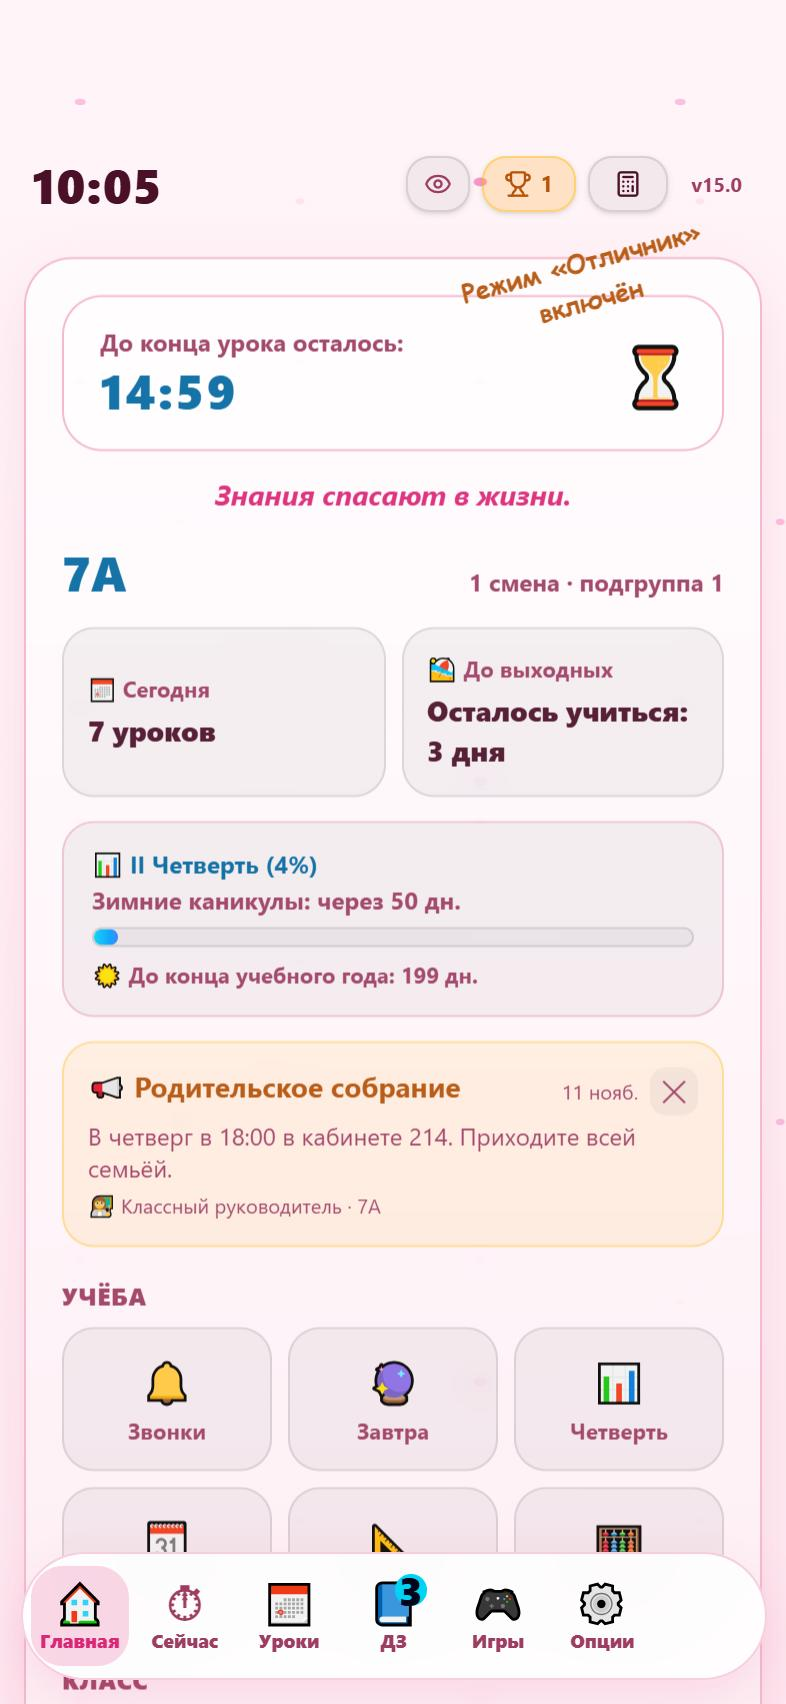
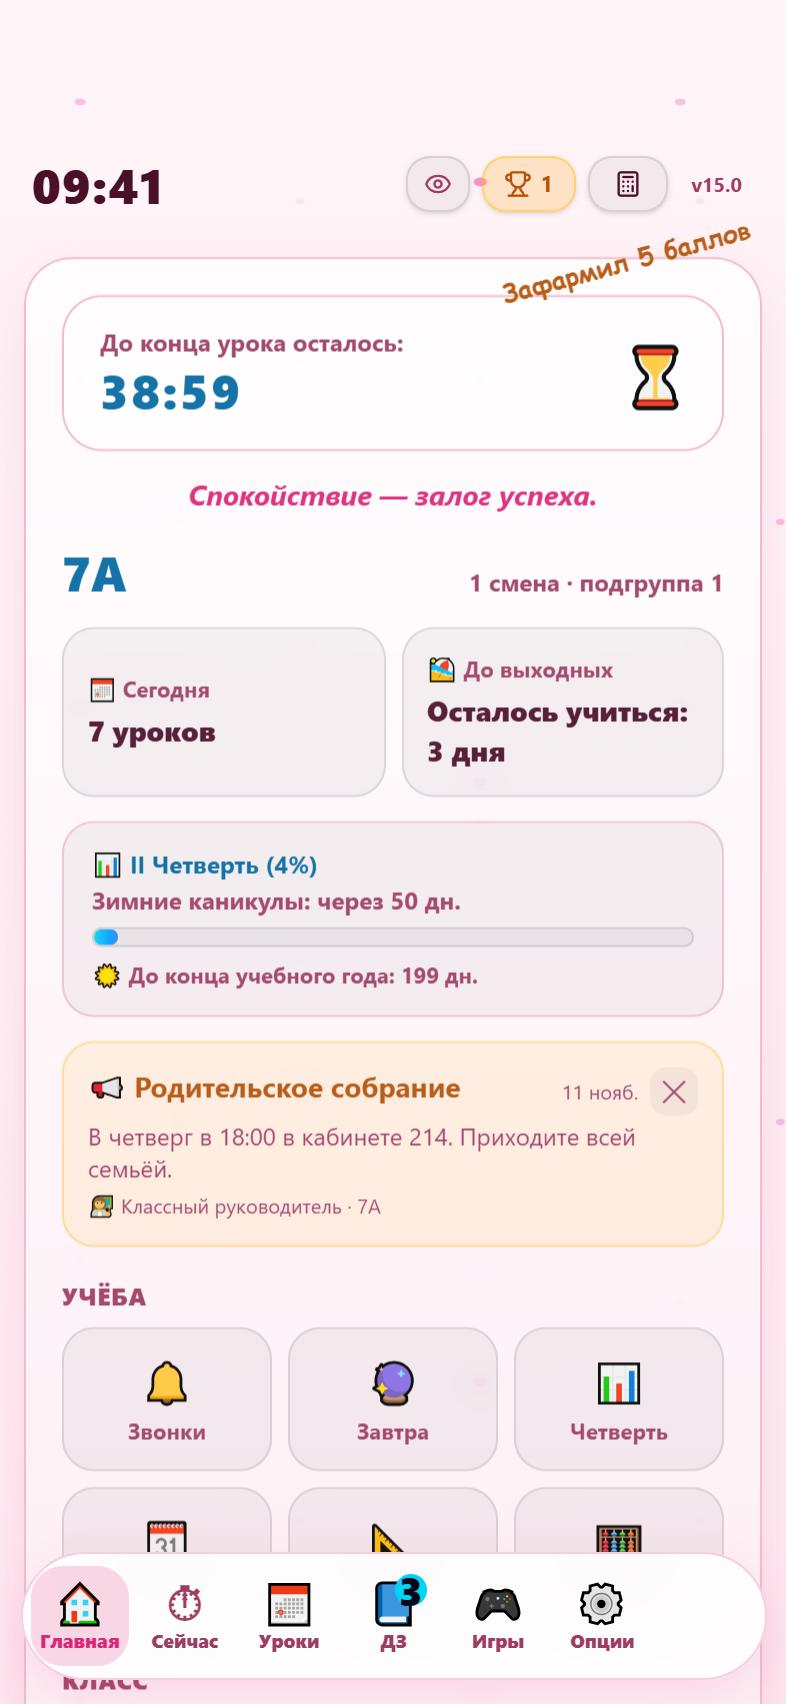
iOS-style status bar: 9:41 everywhere
Status bar uses SF Pro on Apple devices and Inter elsewhere. Screenshots retaken at 9:41, TV mockup in the deck too.

diff --git a/presentation.html b/presentation.html
@@ -8,7 +8,7 @@
   <link rel="icon" type="image/svg+xml" href="icon.svg" />
   <link rel="preconnect" href="https://fonts.googleapis.com" />
   <link rel="preconnect" href="https://fonts.gstatic.com" crossorigin />
-  <link href="https://fonts.googleapis.com/css2?family=Manrope:wght@500;600;700;800&family=Unbounded:wght@600;700;800&display=swap" rel="stylesheet" />
+  <link href="https://fonts.googleapis.com/css2?family=Inter:wght@600&family=Manrope:wght@500;600;700;800&family=Unbounded:wght@600;700;800&display=swap" rel="stylesheet" />
   <link rel="stylesheet" href="style.css" />
   <style>
     /* Презентация: слайды 1920×1080 масштабируются под любой экран */
@@ -108,7 +108,7 @@
     .tv-label { margin-top: 18px; font-size: 24px; font-weight: 700; color: #cfd8ea; }
     .tv-timer { font-size: 96px; font-weight: 800; line-height: 1; color: #5eead4; font-variant-numeric: tabular-nums; }
     .tv-bar { width: 80%; height: 10px; border-radius: 99px; background: rgba(255,255,255,.1); margin: 12px auto 0; overflow: hidden; }
-    .tv-bar i { display: block; width: 62%; height: 100%; background: linear-gradient(90deg, #2dd4bf, #3b82f6); }
+    .tv-bar i { display: block; width: 4%; height: 100%; background: linear-gradient(90deg, #2dd4bf, #3b82f6); }
     .tv-now { margin-top: 12px; font-size: 32px; font-weight: 800; }
     .tv-list h3 { font-family: var(--font-body); font-size: 24px; font-weight: 800; margin-bottom: 10px; }
     .tv-list ol { list-style: none; margin: 0; padding: 0; display: grid; gap: 8px; }
@@ -287,10 +287,10 @@
       <div class="tv anim" style="margin-top:46px">
         <div class="tv-screen">
           <div class="tv-card tv-main">
-            <div class="tv-clock">10:05</div>
+            <div class="tv-clock">9:41</div>
             <div class="tv-date">Среда, 11 ноября</div>
             <div class="tv-label">До звонка с урока</div>
-            <div class="tv-timer">14:59</div>
+            <div class="tv-timer">38:59</div>
             <div class="tv-bar"><i></i></div>
             <div class="tv-now">Литература</div>
           </div>
@@ -435,7 +435,7 @@
       '<svg viewBox="0 0 16 12" aria-hidden="true"><path fill="currentColor" d="M8 2.2c2.4 0 4.6.9 6.3 2.5l1.3-1.3A10.8 10.8 0 0 0 8 .3 10.8 10.8 0 0 0 .4 3.4l1.3 1.3A9 9 0 0 1 8 2.2zm0 3.7c1.4 0 2.7.5 3.7 1.4L13 6a7.3 7.3 0 0 0-10 0l1.3 1.3c1-.9 2.3-1.4 3.7-1.4zm0 3.6c-.6 0-1.2.2-1.6.6L8 11.7l1.6-1.6c-.4-.4-1-.6-1.6-.6z"/></svg>' +
       '<svg viewBox="0 0 27 12" aria-hidden="true"><rect x=".5" y=".5" width="23" height="11" rx="3.2" fill="none" stroke="currentColor" opacity=".45"/><rect x="2" y="2" width="17" height="8" rx="2" fill="currentColor"/><path d="M25 4v4c.8-.3 1.3-1.1 1.3-2S25.8 4.3 25 4z" fill="currentColor" opacity=".5"/></svg>';
     document.querySelectorAll('.iphone').forEach((el) => {
-      el.insertAdjacentHTML('beforeend', `<i class="island"></i><div class="sb"><span>10:05</span><span class="sb-icons">${ICONS}</span></div><i class="home-bar"></i>`);
+      el.insertAdjacentHTML('beforeend', `<i class="island"></i><div class="sb"><span>9:41</span><span class="sb-icons">${ICONS}</span></div><i class="home-bar"></i>`);
     });
 
     // Масштаб сцены под окно, с полями по краям

diff --git a/style.css b/style.css
@@ -368,9 +368,11 @@ h2 { font-size: clamp(28px, 3.8vw, 44px); font-weight: 700; letter-spacing: -0.0
   align-items: center;
   padding: 0 7.5cqw 0 10cqw;
   color: #fff;
-  font-family: -apple-system, 'SF Pro Text', 'Segoe UI', system-ui, sans-serif;
-  font-size: 4.1cqw;
-  font-weight: 700;
+  /* Как в iOS: на Apple-устройствах настоящий SF Pro, на остальных — похожий Inter */
+  font-family: -apple-system, BlinkMacSystemFont, 'SF Pro Text', 'Inter', system-ui, sans-serif;
+  font-size: 4.3cqw;
+  font-weight: 600;
+  letter-spacing: -0.02em;
   line-height: 1;
   pointer-events: none;
 }

diff --git a/index.html b/index.html
@@ -36,7 +36,7 @@
   <link rel="icon" type="image/svg+xml" href="icon.svg" />
   <link rel="preconnect" href="https://fonts.googleapis.com" />
   <link rel="preconnect" href="https://fonts.gstatic.com" crossorigin />
-  <link href="https://fonts.googleapis.com/css2?family=Manrope:wght@400;500;600;700;800&family=Unbounded:wght@600;700;800&display=swap" rel="stylesheet" />
+  <link href="https://fonts.googleapis.com/css2?family=Inter:wght@600&family=Manrope:wght@400;500;600;700;800&family=Unbounded:wght@600;700;800&display=swap" rel="stylesheet" />
   <link rel="stylesheet" href="style.css" />
 </head>
 <body>

diff --git a/main.js b/main.js
@@ -19,7 +19,7 @@ const STATUS_ICONS =
 document.querySelectorAll('.iphone').forEach((el) => {
   el.insertAdjacentHTML(
     'beforeend',
-    `<i class="island" aria-hidden="true"></i><div class="sb" aria-hidden="true"><span>10:05</span><span class="sb-icons">${STATUS_ICONS}</span></div><i class="home-bar" aria-hidden="true"></i>`
+    `<i class="island" aria-hidden="true"></i><div class="sb" aria-hidden="true"><span>9:41</span><span class="sb-icons">${STATUS_ICONS}</span></div><i class="home-bar" aria-hidden="true"></i>`
   );
 });
 
